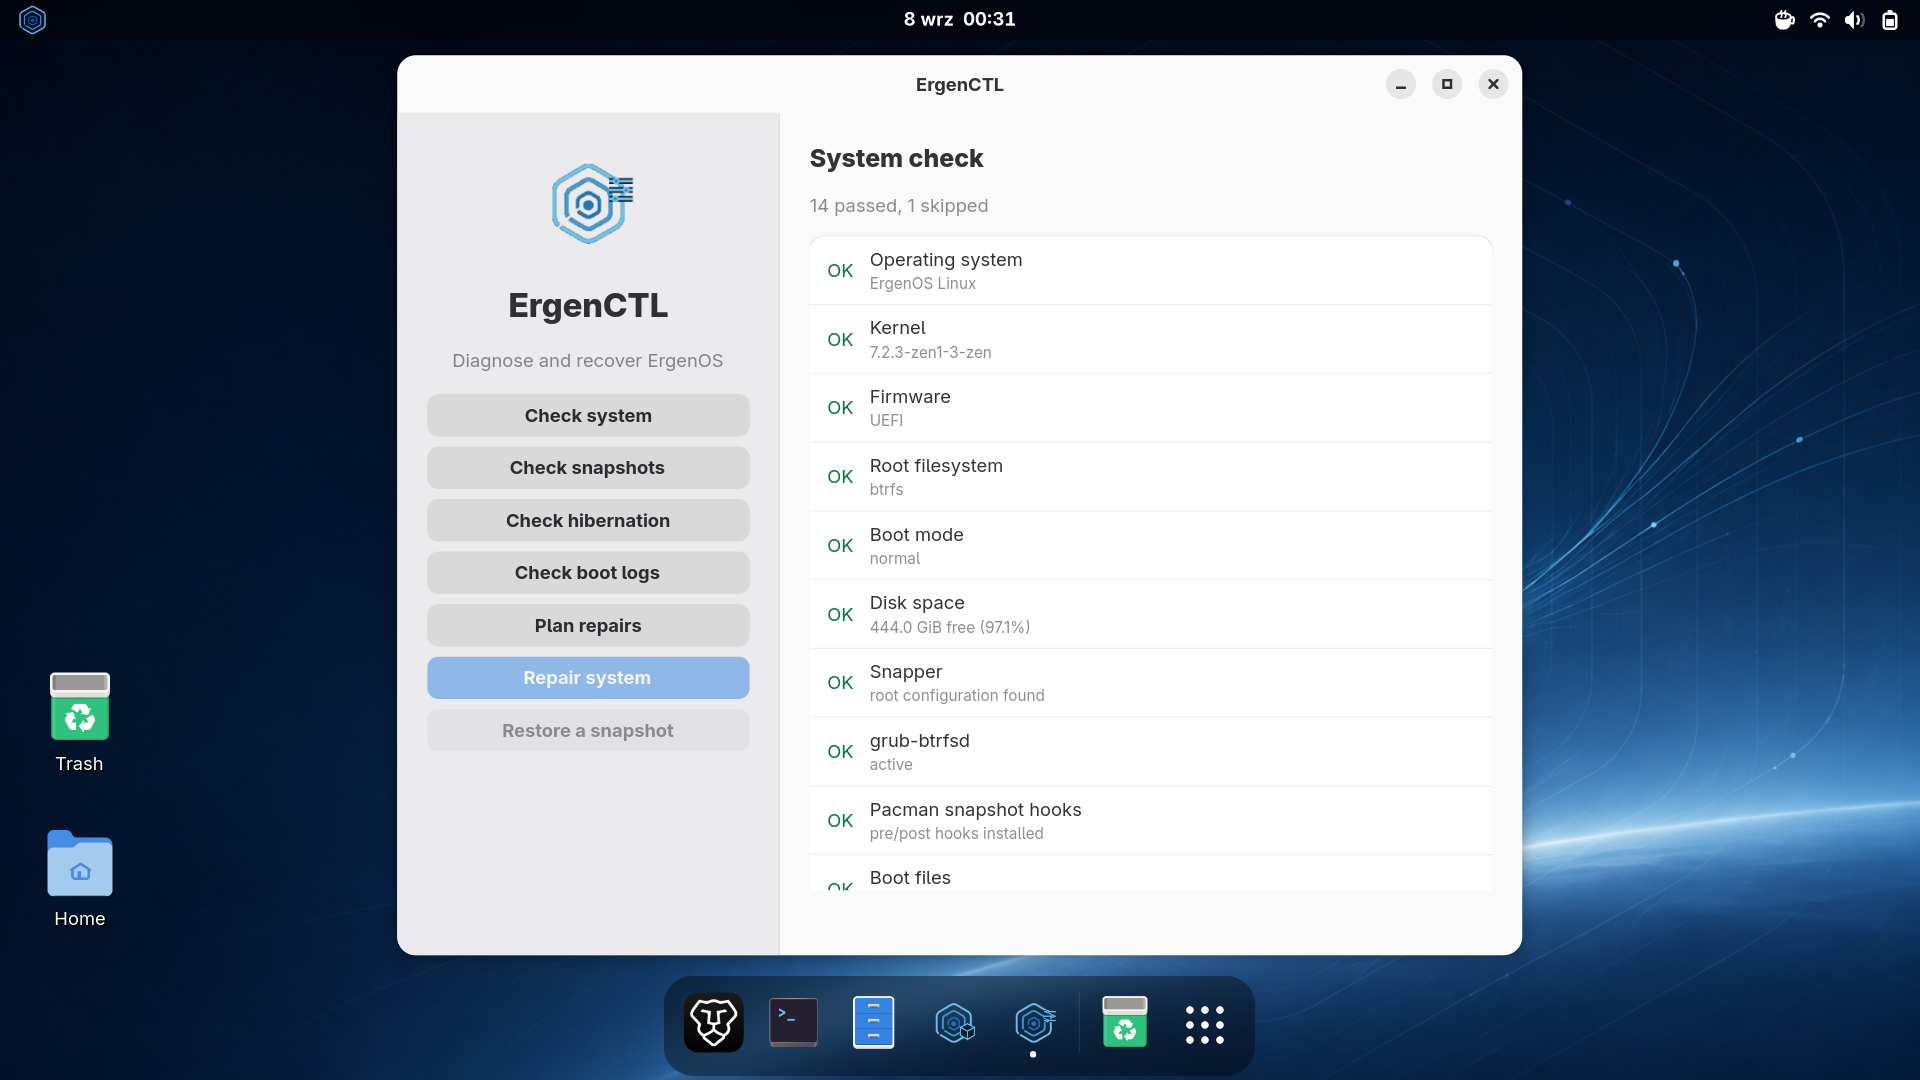
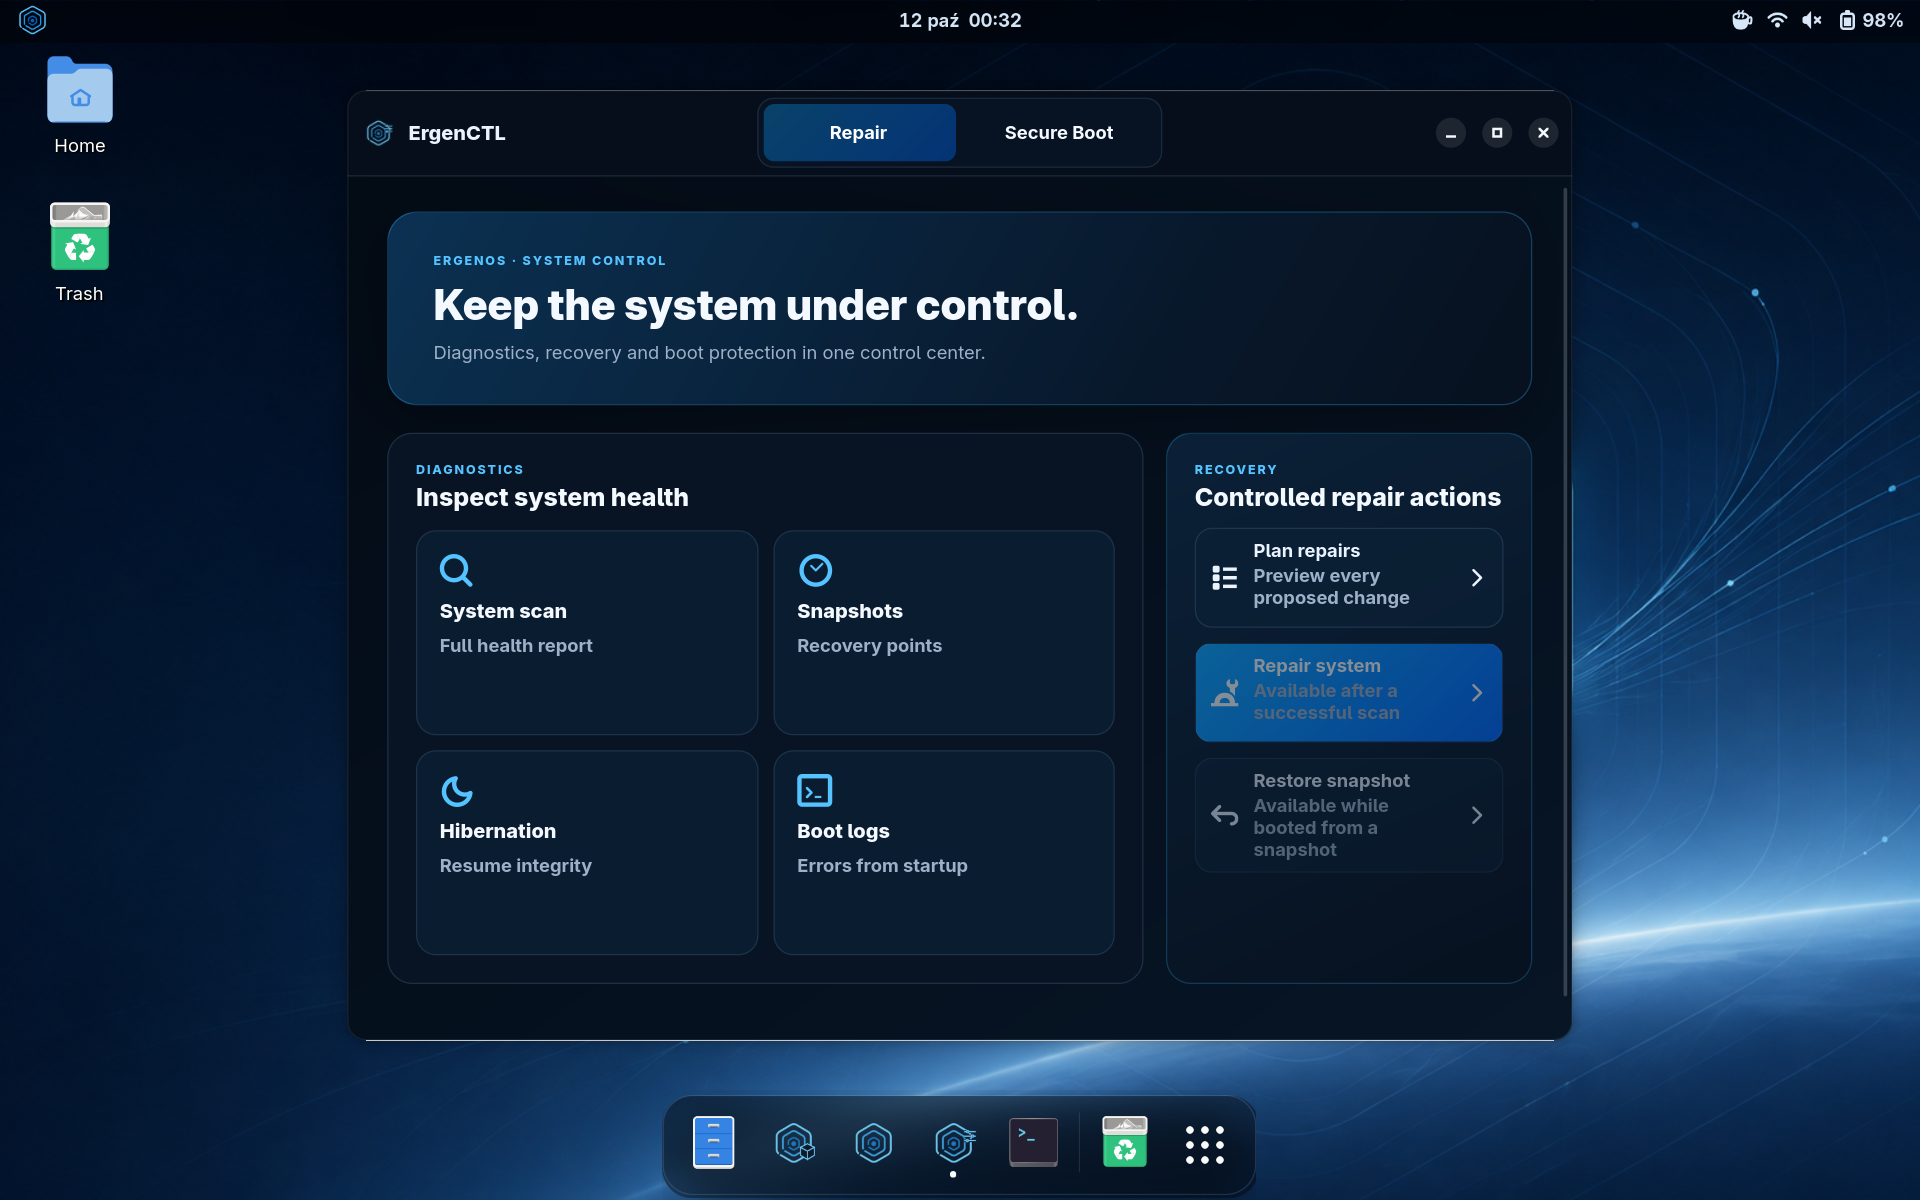
Refresh desktop and application screenshots

diff --git a/pl/index.html b/pl/index.html
@@ -71,8 +71,8 @@
         <div class="hero-actions"><a class="button" href="#download">Pobierz ErgenOS</a><a class="button" href="https://ergenossw.github.io/ErgenOS-Wiki/pl/">ErgenOS Wiki <span aria-hidden="true">→</span></a></div>
         <p class="fine-print">Darmowy · Otwarty kod źródłowy · GNOME · x86_64</p>
       </div>
-      <div class="desktop-stage"><div class="stage-label"><span><i></i> ERGENOS 1.1 / GNOME DESKTOP</span><span>TAK WYGLĄDA WOLNOŚĆ</span></div><a class="desktop-shot" href="../assets/screenshots/ergenos-desktop.png" aria-label="Otwórz pełnowymiarowy zrzut pulpitu ErgenOS">
-        <img src="../assets/screenshots/ergenos-desktop.webp" width="1920" height="1080" fetchpriority="high" alt="Pulpit ErgenOS 1.1 uruchomiony na fizycznym sprzęcie">
+      <div class="desktop-stage"><div class="stage-label"><span><i></i> ERGENOS / GNOME DESKTOP</span><span>TAK WYGLĄDA WOLNOŚĆ</span></div><a class="desktop-shot" href="../assets/screenshots/ergenos-desktop.png?v=20261012" aria-label="Otwórz pełnowymiarowy zrzut pulpitu ErgenOS">
+        <img src="../assets/screenshots/ergenos-desktop.webp?v=20261012" width="1920" height="1200" fetchpriority="high" alt="Pulpit ErgenOS z nowym domyślnym motywem">
         <span class="shot-hint">Powiększ zrzut</span>
       </a><div class="stage-footer"><span>Prawdziwy pulpit. Prawdziwy sprzęt.</span><span>01 — 04 <span class="stage-line"></span> GNOME / WAYLAND</span></div></div>
     </section><div class="platform-strip"><span>Solidna podstawa. Własny charakter.</span><b>Arch Linux</b><b>GNOME</b><b>linux-zen</b><b>Btrfs + Snapper</b><b>Calamares</b></div>
@@ -100,17 +100,17 @@
           <button class="app-tab" type="button" id="app-tab-2" data-app-tab="2"><img src="../assets/ergenctl-logo-mark.png" alt="" width="32" height="32"><span>ErgenCTL<small>Kondycja systemu</small></span><span class="tab-index" aria-hidden="true">03</span></button></div>
         <article class="app-panel" id="app-panel-0" data-app-panel="0">
           <div class="app-panel-copy"><span class="eyebrow">ErgenOS Welcome</span><h3>Dobry początek.<br>Od pierwszego logowania.</h3><p>Najważniejsze informacje o systemie i skróty do przydatnych narzędzi zaraz po instalacji.</p><ul class="app-capabilities"><li>Informacje o systemie</li><li>Skróty do narzędzi</li><li>Pomoc po instalacji</li></ul><a class="text-link app-source" href="https://github.com/ErgenosSW/ErgenOS-Welcome">Poznaj ErgenOS Welcome na GitHubie <span>↗</span></a></div>
-          <a class="screenshot-card app-preview" href="../assets/screenshots/ergenos-welcome.png"><img src="../assets/screenshots/ergenos-welcome.webp" alt="ErgenOS Welcome — Pierwsze kroki" width="1920" height="1080" loading="lazy" decoding="async"><span><strong>ErgenOS Welcome</strong><small>Powiększ zrzut</small></span></a>
+          <a class="screenshot-card app-preview" href="../assets/screenshots/ergenos-welcome.png?v=20261012"><img src="../assets/screenshots/ergenos-welcome.webp?v=20261012" alt="ErgenOS Welcome — Pierwsze kroki" width="1920" height="1200" loading="lazy" decoding="async"><span><strong>ErgenOS Welcome</strong><small>Powiększ zrzut</small></span></a>
         </article>
         <article class="app-panel" id="app-panel-1" data-app-panel="1">
           <div class="app-panel-copy"><span class="eyebrow">ErgenPac</span><h3>Wszystko, czego potrzebujesz.<br>W jednym miejscu.</h3><p>Instaluj i aktualizuj programy z repozytoriów Arch Linux oraz Flathuba, a także wykrywaj i uzupełniaj brakujące sterowniki.</p><ul class="app-capabilities"><li>Arch Linux i Flathub</li><li>Aktualizacje aplikacji</li><li>Wykrywanie sterowników</li></ul><a class="text-link app-source" href="https://github.com/ErgenosSW/ErgenPac">Poznaj ErgenPac na GitHubie <span>↗</span></a></div>
-          <a class="screenshot-card app-preview" href="../assets/screenshots/ergenpac-search.png"><img src="../assets/screenshots/ergenpac-search.webp" alt="ErgenPac — Programy i sterowniki" width="1920" height="1080" loading="lazy" decoding="async"><span><strong>ErgenPac</strong><small>Powiększ zrzut</small></span></a>
+          <a class="screenshot-card app-preview" href="../assets/screenshots/ergenpac-search.png?v=20261012"><img src="../assets/screenshots/ergenpac-search.webp?v=20261012" alt="ErgenPac — Aktualizacje systemu" width="1920" height="1200" loading="lazy" decoding="async"><span><strong>ErgenPac</strong><small>Powiększ zrzut</small></span></a>
         </article>
         <article class="app-panel" id="app-panel-2" data-app-panel="2">
           <div class="app-panel-copy"><span class="eyebrow">ErgenCTL</span><h3>Poznaj swój system.<br>Zachowaj kontrolę.</h3><p>Sprawdzaj stan systemu, analizuj problemy z uruchamianiem, przywracaj migawki i skonfiguruj Secure Boot krok po kroku.</p><ul class="app-capabilities"><li>Diagnostyka i logi</li><li>Przywracanie migawek</li><li>Konfiguracja Secure Boot</li></ul><a class="text-link app-source" href="https://github.com/ErgenosSW/ErgenCTL">Poznaj ErgenCTL na GitHubie <span>↗</span></a></div>
-          <a class="screenshot-card app-preview" href="../assets/screenshots/ergenctl-system-check.png"><img src="../assets/screenshots/ergenctl-system-check.webp" alt="ErgenCTL — Kondycja systemu" width="1920" height="1080" loading="lazy" decoding="async"><span><strong>ErgenCTL</strong><small>Powiększ zrzut</small></span></a>
+          <a class="screenshot-card app-preview" href="../assets/screenshots/ergenctl-system-check.png?v=20261012"><img src="../assets/screenshots/ergenctl-system-check.webp?v=20261012" alt="ErgenCTL — Kondycja systemu" width="1920" height="1200" loading="lazy" decoding="async"><span><strong>ErgenCTL</strong><small>Powiększ zrzut</small></span></a>
         </article>
-        <p class="showcase-note">Rzeczywiste zrzuty ErgenOS 1.1. Aplikacje dostępne w każdej instalacji.</p>
+        <p class="showcase-note">Pulpit ErgenOS i jego narzędzia systemowe.</p>
       </div>
     </section>
 

diff --git a/index.html b/index.html
@@ -69,8 +69,8 @@
         <div class="hero-actions"><a class="button" href="#download">Download ErgenOS</a><a class="button" href="https://ergenossw.github.io/ErgenOS-Wiki/">ErgenOS Wiki <span aria-hidden="true">→</span></a></div>
         <p class="fine-print">Free and open source · GNOME · x86_64</p>
       </div>
-      <div class="desktop-stage"><div class="stage-label"><span><i></i> ERGENOS 1.1 / GNOME DESKTOP</span><span>THIS IS WHAT FREEDOM LOOKS LIKE</span></div><a class="desktop-shot" href="assets/screenshots/ergenos-desktop.png" aria-label="Open a full-size screenshot of the ErgenOS desktop">
-        <img src="assets/screenshots/ergenos-desktop.webp" width="1920" height="1080" fetchpriority="high" alt="ErgenOS 1.1 desktop running on physical hardware">
+      <div class="desktop-stage"><div class="stage-label"><span><i></i> ERGENOS / GNOME DESKTOP</span><span>THIS IS WHAT FREEDOM LOOKS LIKE</span></div><a class="desktop-shot" href="assets/screenshots/ergenos-desktop.png?v=20261012" aria-label="Open a full-size screenshot of the ErgenOS desktop">
+        <img src="assets/screenshots/ergenos-desktop.webp?v=20261012" width="1920" height="1200" fetchpriority="high" alt="ErgenOS desktop with the new default theme">
         <span class="shot-hint">View full size</span>
       </a><div class="stage-footer"><span>Real desktop. Real hardware.</span><span>01 — 04 <span class="stage-line"></span> GNOME / WAYLAND</span></div></div>
     </section><div class="platform-strip"><span>A solid foundation. A distinct identity.</span><b>Arch Linux</b><b>GNOME</b><b>linux-zen</b><b>Btrfs + Snapper</b><b>Calamares</b></div>
@@ -98,17 +98,17 @@
           <button class="app-tab" type="button" id="app-tab-2" data-app-tab="2"><img src="assets/ergenctl-logo-mark.png" alt="" width="32" height="32"><span>ErgenCTL<small>System health</small></span><span class="tab-index" aria-hidden="true">03</span></button></div>
         <article class="app-panel" id="app-panel-0" data-app-panel="0">
           <div class="app-panel-copy"><span class="eyebrow">ErgenOS Welcome</span><h3>A better start.<br>From your first login.</h3><p>Your starting point after installation, with system information and shortcuts to essential tools.</p><ul class="app-capabilities"><li>System information</li><li>Essential shortcuts</li><li>Post-install guidance</li></ul><a class="text-link app-source" href="https://github.com/ErgenosSW/ErgenOS-Welcome">Explore ErgenOS Welcome on GitHub <span>↗</span></a></div>
-          <a class="screenshot-card app-preview" href="assets/screenshots/ergenos-welcome.png"><img src="assets/screenshots/ergenos-welcome.webp" alt="ErgenOS Welcome — Your first steps" width="1920" height="1080" loading="lazy" decoding="async"><span><strong>ErgenOS Welcome</strong><small>View full size</small></span></a>
+          <a class="screenshot-card app-preview" href="assets/screenshots/ergenos-welcome.png?v=20261012"><img src="assets/screenshots/ergenos-welcome.webp?v=20261012" alt="ErgenOS Welcome — Your first steps" width="1920" height="1200" loading="lazy" decoding="async"><span><strong>ErgenOS Welcome</strong><small>View full size</small></span></a>
         </article>
         <article class="app-panel" id="app-panel-1" data-app-panel="1">
           <div class="app-panel-copy"><span class="eyebrow">ErgenPac</span><h3>Everything you need.<br>One place to find it.</h3><p>Search, install and update software from Arch Linux and Flathub, then detect and install the recommended hardware driver packages.</p><ul class="app-capabilities"><li>Arch Linux and Flathub</li><li>Application updates</li><li>Driver detection</li></ul><a class="text-link app-source" href="https://github.com/ErgenosSW/ErgenPac">Explore ErgenPac on GitHub <span>↗</span></a></div>
-          <a class="screenshot-card app-preview" href="assets/screenshots/ergenpac-search.png"><img src="assets/screenshots/ergenpac-search.webp" alt="ErgenPac — Software and drivers" width="1920" height="1080" loading="lazy" decoding="async"><span><strong>ErgenPac</strong><small>View full size</small></span></a>
+          <a class="screenshot-card app-preview" href="assets/screenshots/ergenpac-search.png?v=20261012"><img src="assets/screenshots/ergenpac-search.webp?v=20261012" alt="ErgenPac — System updates" width="1920" height="1200" loading="lazy" decoding="async"><span><strong>ErgenPac</strong><small>View full size</small></span></a>
         </article>
         <article class="app-panel" id="app-panel-2" data-app-panel="2">
           <div class="app-panel-copy"><span class="eyebrow">ErgenCTL</span><h3>Know your system.<br>Stay in control.</h3><p>Diagnose the installation, inspect boot logs, recover snapshots and configure Secure Boot through a guided checklist.</p><ul class="app-capabilities"><li>Diagnostics and boot logs</li><li>Snapshot recovery</li><li>Secure Boot setup</li></ul><a class="text-link app-source" href="https://github.com/ErgenosSW/ErgenCTL">Explore ErgenCTL on GitHub <span>↗</span></a></div>
-          <a class="screenshot-card app-preview" href="assets/screenshots/ergenctl-system-check.png"><img src="assets/screenshots/ergenctl-system-check.webp" alt="ErgenCTL — System health" width="1920" height="1080" loading="lazy" decoding="async"><span><strong>ErgenCTL</strong><small>View full size</small></span></a>
+          <a class="screenshot-card app-preview" href="assets/screenshots/ergenctl-system-check.png?v=20261012"><img src="assets/screenshots/ergenctl-system-check.webp?v=20261012" alt="ErgenCTL — System health" width="1920" height="1200" loading="lazy" decoding="async"><span><strong>ErgenCTL</strong><small>View full size</small></span></a>
         </article>
-        <p class="showcase-note">Real screenshots of ErgenOS 1.1. Included in every installation.</p>
+        <p class="showcase-note">The ErgenOS desktop and its system tools.</p>
       </div>
     </section>
 

diff --git a/overrides.css b/overrides.css
@@ -296,7 +296,7 @@ h1 em {
 
 .desktop-shot {
   display:block;
-  aspect-ratio:16/9;
+  aspect-ratio:16/10;
   border-radius:9px;
   transform:none;
   background:#101820;
@@ -602,7 +602,7 @@ h3 {
 .screenshot-card img {
   display:block;
   width:100%;
-  aspect-ratio:16/9;
+  aspect-ratio:16/10;
   object-fit:contain;
   transition:transform .4s;
 }
@@ -1915,7 +1915,7 @@ body {
 }
 
 .app-preview img {
-  aspect-ratio:16/9;
+  aspect-ratio:16/10;
   object-fit:contain;
 }
 

diff --git a/README.md b/README.md
@@ -23,5 +23,5 @@ Publish the `main` branch from the repository root with GitHub Pages.
 
 Both locales link to the complete ErgenOS 1.2 ISO on MediaFire and show its
 SHA-256 and exact byte size. The GitHub release contains both ISO parts, checksum files and assembly instructions.
-Existing screenshot captions remain at 1.1 because those images have not changed.
+Desktop, ErgenPac, Welcome and ErgenCTL screenshots were refreshed on October 12, 2026. Original 1920×1200 PNGs are preserved alongside WebP previews.
 See [CHANGELOG.md](CHANGELOG.md).

diff --git a/CHANGELOG.md b/CHANGELOG.md
@@ -1,5 +1,11 @@
 # Changelog
 
+## 2026-10-12 — Screenshot refresh
+
+- Replace desktop, ErgenPac, Welcome and ErgenCTL screenshots in both locales.
+- Update image dimensions, captions and cache versions; retain full-size PNGs and WebP previews.
+
+
 ## 2026-10-12 — ISO 1.2 download
 
 - Update both locales to the complete MediaFire ISO with its SHA-256 and byte size.
